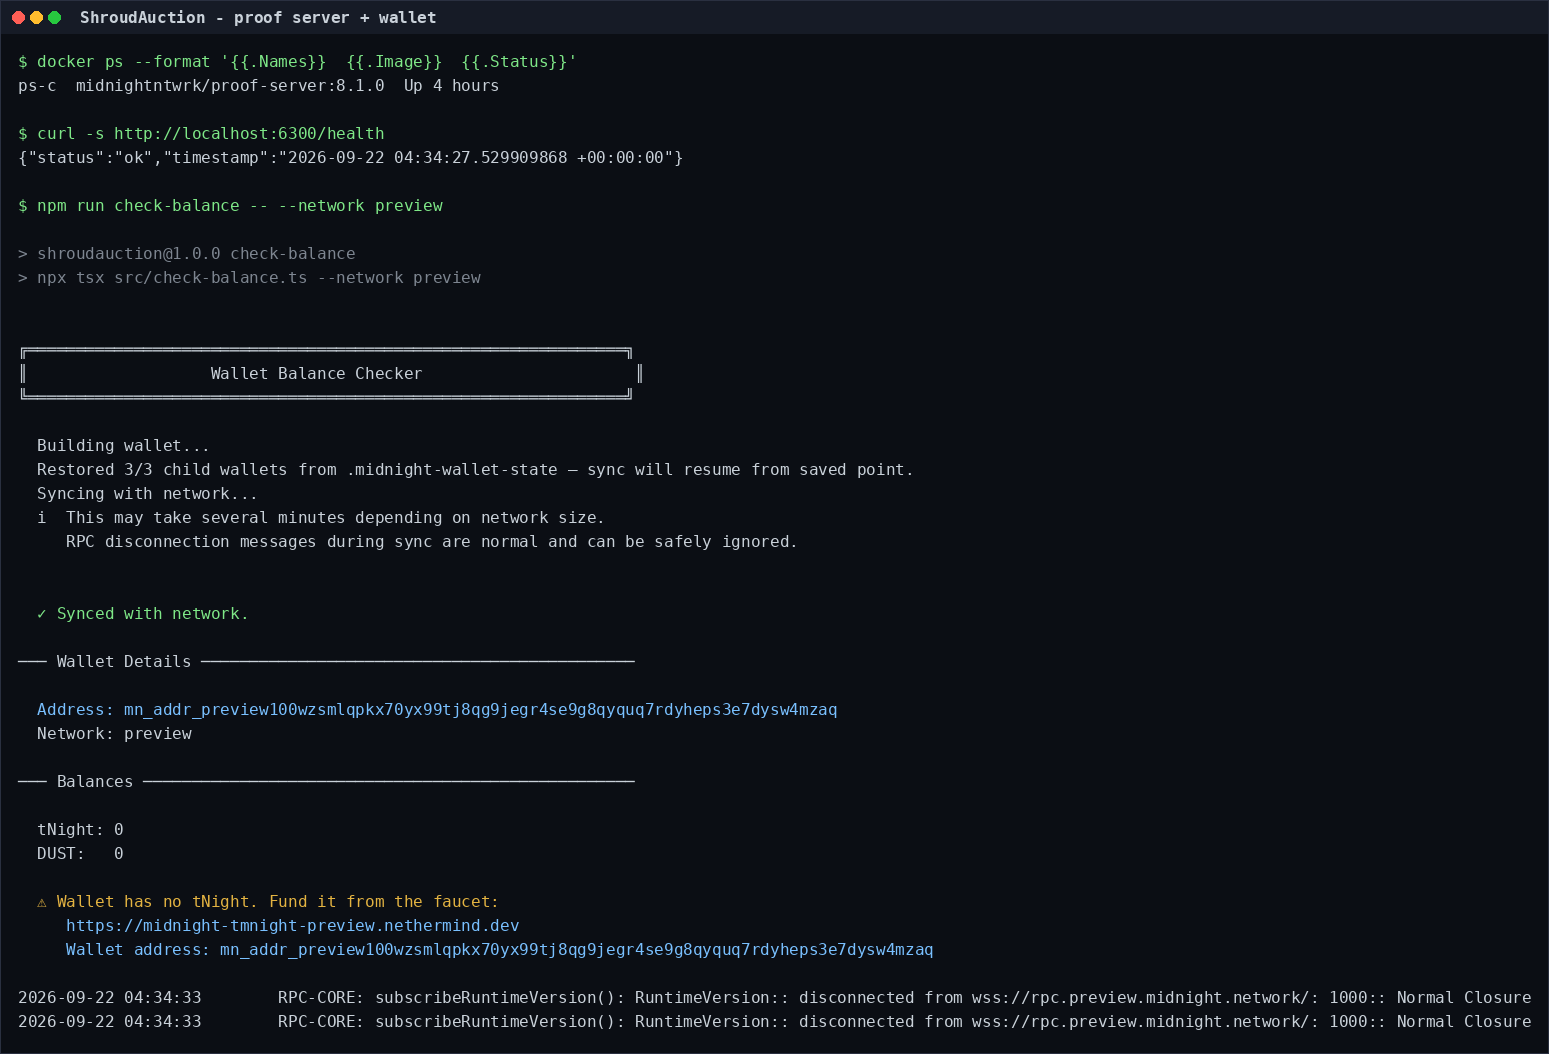
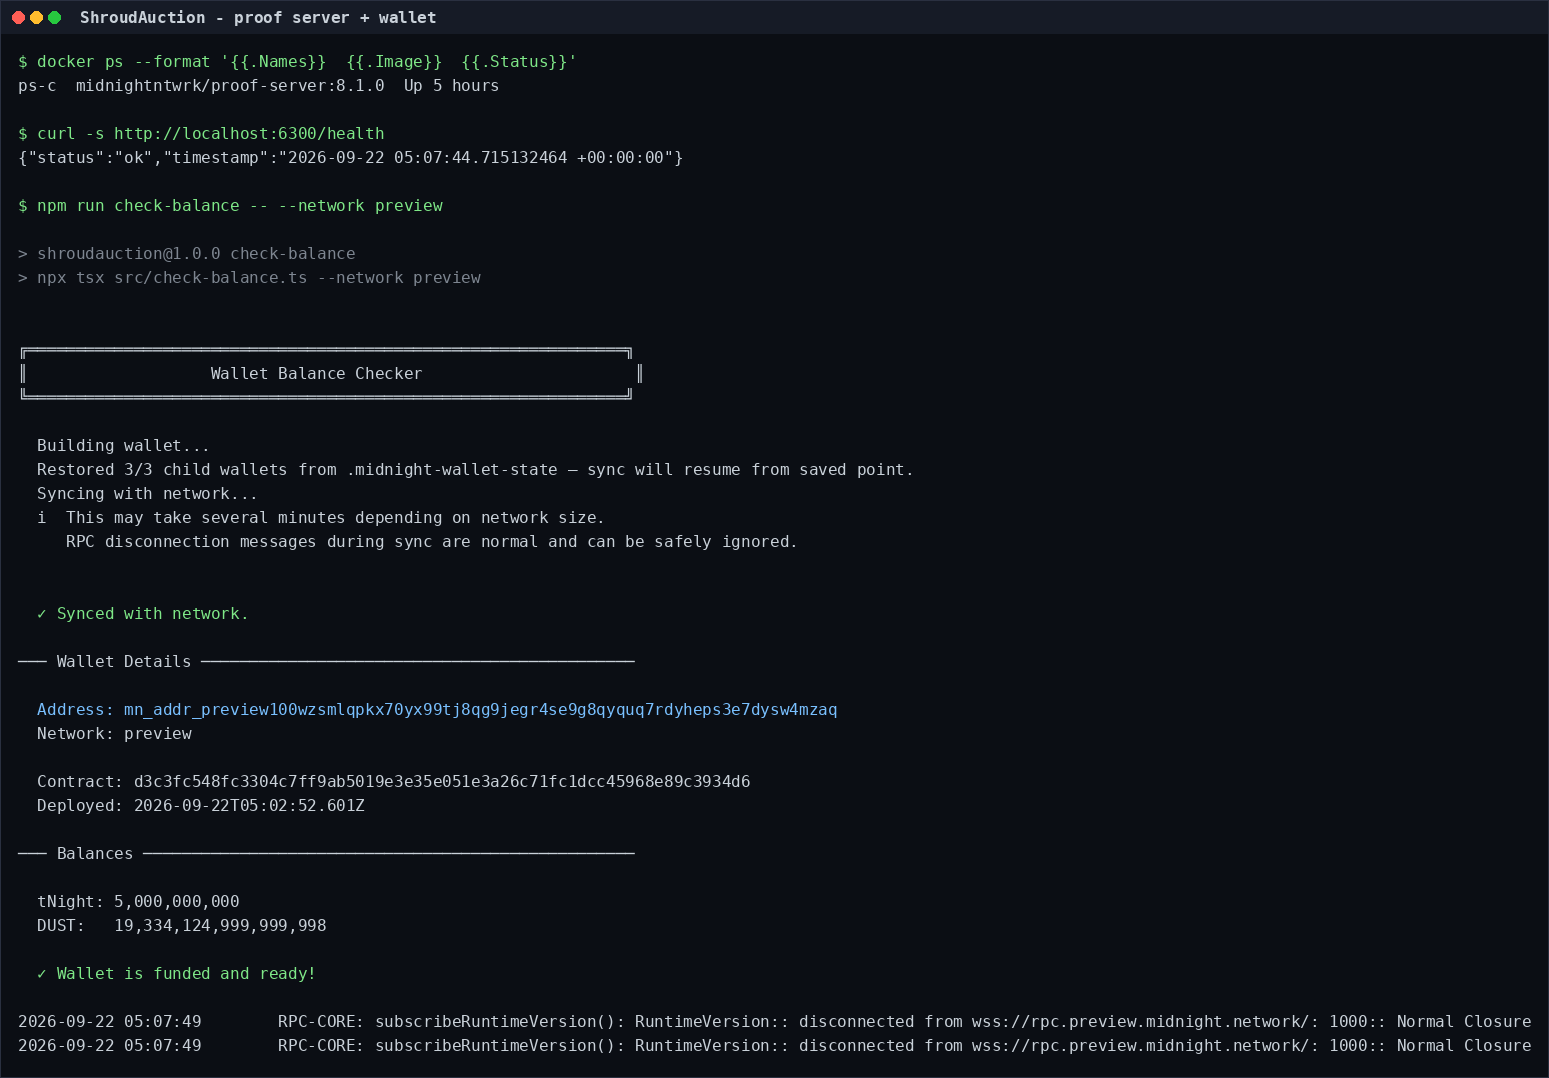
docs: regenerate the wallet capture for the funded Preview deploy
The screenshot still showed an unfunded wallet and no contract, which
contradicted the deployed Preview address in the table at the top of the
same README. It now captures the real post-deploy state: 5,000,000,000
tNIGHT, the generated DUST, and the contract address.

Generated with Codebuff 🤖

diff --git a/README.md b/README.md
@@ -234,15 +234,17 @@ Every image below is generated from real command output by `scripts/render-scree
 
 ![Vitest output showing 14 passing tests](docs/img/02-tests.png)
 
-**Proof server healthy on port 6300, and the deployer wallet's on-chain balance** — captured before the wallet was funded, so it reports 0 tNight. The Preview deploy that followed it is what the address table at the top now shows:
+**Proof server healthy on port 6300, the funded deployer wallet, and the contract it deployed** — the faucet drip landed and the Preview deploy went out, so the wallet reports the tNIGHT it was funded with and the DUST that pays the fees, alongside the contract address from the table at the top:
 
-![Proof server health check and a Preview wallet balance reporting 0 tNight](docs/img/03-proof-server-and-wallet.png)
+![Proof server health check, a funded Preview wallet reporting 5,000,000,000 tNight, and the deployed contract address](docs/img/03-proof-server-and-wallet.png)
 
 Regenerate them with:
 
 ```bash
 python3 scripts/render-screenshots.py                # run the commands, capture, render
 python3 scripts/render-screenshots.py --render-only   # re-render from docs/sessions/
+python3 scripts/render-screenshots.py --only 03-proof-server-and-wallet   # refresh one capture
+python3 scripts/render-screenshots.py --only 01-compile --only 02-tests   # --only repeats
 ```
 
 The renderer is a standalone Python script (it needs Pillow, and the DejaVu Sans Mono face that ships with most Linux distributions) so it stays out of the project's Node dependency tree.
